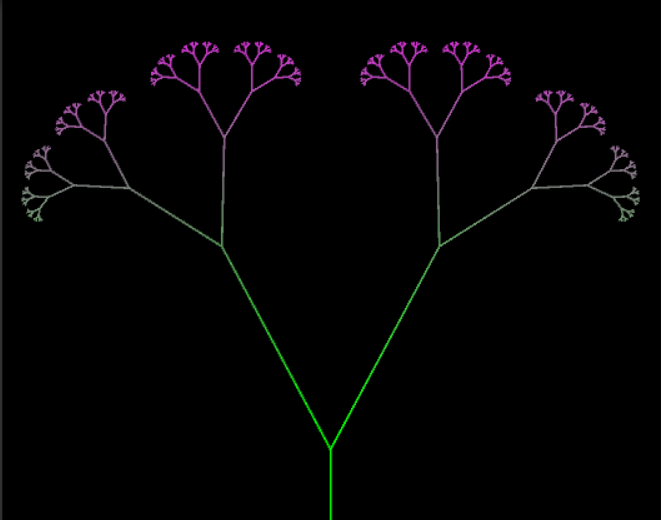
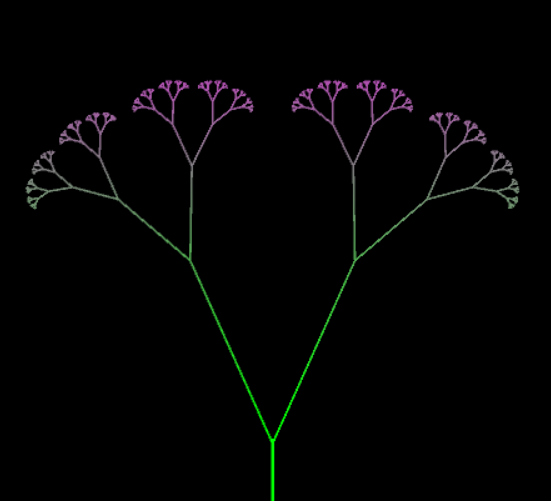
Add randomness

diff --git a/windows_vr/VrScratch/Assets/L-Trees/LTreeGenerator.cs b/windows_vr/VrScratch/Assets/L-Trees/LTreeGenerator.cs
@@ -11,6 +11,10 @@ public partial class LTreeGenerator : MonoBehaviour
     public int numLevels;
     public string axiom = "0";
     public int branchAngle = 45;
+    [Range(0,100)]
+    public float angleRandomness = 0.0f;
+    [Range(0,100)]
+    public float lengthRandomness = 0.0f;
     [Range(0.001f, 1.0f)]
     public float branchLength = 1.0f;
     public LineRenderer lineRendererPrefab;
@@ -26,6 +30,9 @@ public partial class LTreeGenerator : MonoBehaviour
 
     private Node root;
 
+    private float currentBranchAngle;
+    private float currentBranchLength;
+    private bool updateRandomValues = true;
 
     private void CreateLTree()
     {
@@ -56,30 +63,34 @@ public partial class LTreeGenerator : MonoBehaviour
         //   - update direction by rotating 45 to the right
         foreach (char c in lString)
         {
+            if(updateRandomValues)
+            {
+                RegenerateRandom();
+            }
             if (c == '1')
             {
                 Vector3 startPos = currentPosition;
-                currentPosition += currentDirection * branchLength;
+                currentPosition += currentDirection * currentBranchLength;
                 lTreeNodes.Add(new Node(startPos, currentPosition, false));
             }
             else if (c == '0')
             {
                 Vector3 startPos = currentPosition;
-                currentPosition += currentDirection * branchLength;
+                currentPosition += currentDirection * currentBranchLength;
                 lTreeNodes.Add(new Node(startPos, currentPosition, true));
             }
             else if (c == '[')
             {
                 savedPositions.Push(currentPosition);
                 savedDirections.Push(currentDirection);
-                Quaternion q = Quaternion.Euler(0, 0, branchAngle);
+                Quaternion q = Quaternion.Euler(0, 0, currentBranchAngle);
                 currentDirection = q * currentDirection;
             }
             else if (c == ']')
             {
                 currentPosition = savedPositions.Pop();
                 currentDirection = savedDirections.Pop();
-                Quaternion q = Quaternion.Euler(0, 0, -branchAngle);
+                Quaternion q = Quaternion.Euler(0, 0, -currentBranchAngle);
                 currentDirection = q * currentDirection;
             }
         }
@@ -96,6 +107,12 @@ public partial class LTreeGenerator : MonoBehaviour
         {
             node.Draw(gameObject);
         }
+    }
+
+    private void RegenerateRandom()
+    {
+        currentBranchAngle = branchAngle + (int) (angleRandomness * (Random.value - 0.5f));
+        currentBranchLength = branchLength + lengthRandomness * (Random.value - 0.5f);
     }
 
     private void ExpandLString(int iterationsLeft)
@@ -139,6 +156,7 @@ public partial class LTreeGenerator : MonoBehaviour
     // Use this for initialization
     void Start()
     {
+        updateRandomValues = true;
     }
 
     // Update is called once per frame
@@ -149,8 +167,16 @@ public partial class LTreeGenerator : MonoBehaviour
         // We can get the positions, add to the array, and then set the position this way.
         // Pretty inefficient...
         //lineRenderer
-        GenerateLString(axiom, numLevels);
-        CreateLTree();
+        if (Input.GetKeyDown(KeyCode.R))
+        {
+            updateRandomValues = true;
+            GenerateLString(axiom, numLevels);
+            CreateLTree();
+        }
         DrawLTree();
+        updateRandomValues = false;
     }
+
+    
 }
+
